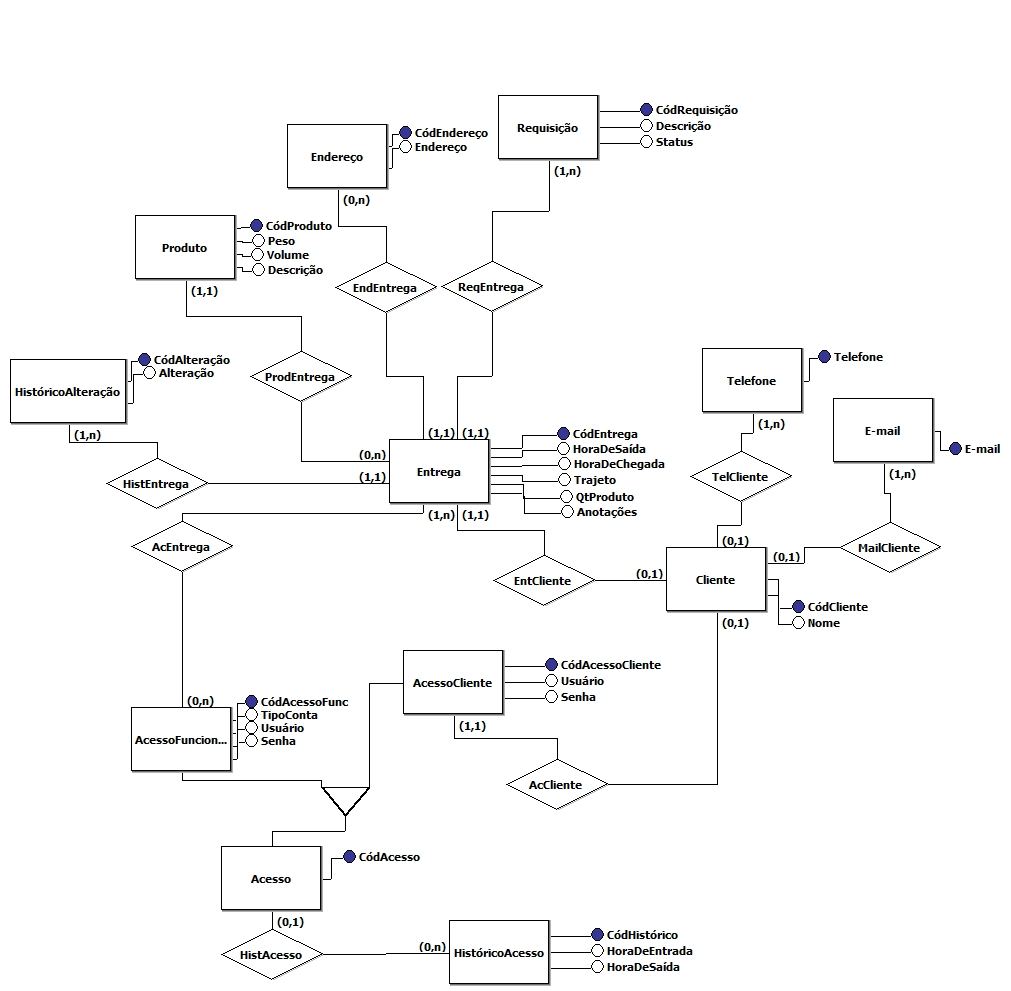
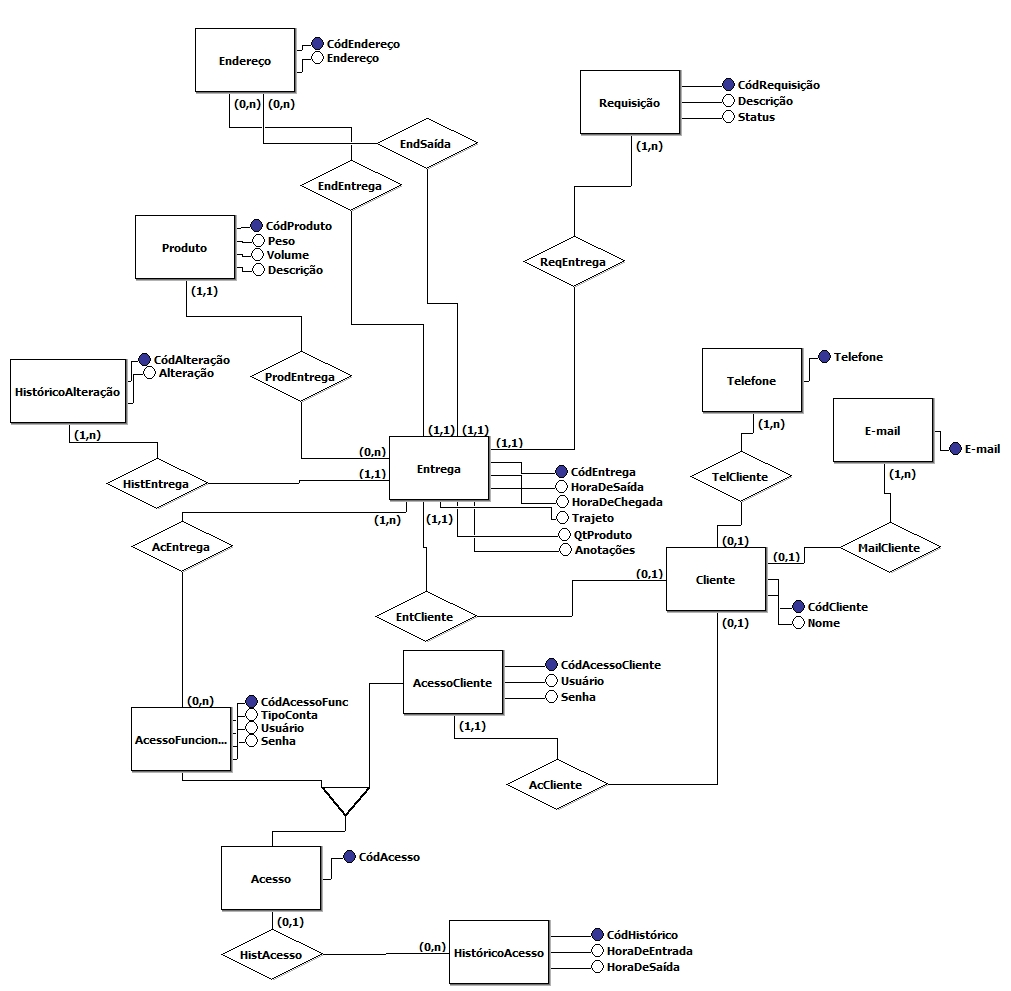
Correção no Modelo ER e Relacional
Olhar no Pivotal Tracker

diff --git a/docs/Modelo Relacional Normalizado.md b/docs/Modelo Relacional Normalizado.md
@@ -6,7 +6,7 @@ Requisição (**CódRequisição**, #CódEntrega, Descrição, Status)
 
 HistóricoAlteração (**CódAlteração**, #CódEntrega, Alteração)
 
-Entrega (**CódEntrega**, #CódProduto, HoraDeSaída, HoraDeChegada, Trajeto, QtProduto, Anotações)
+Entrega (**CódEntrega**, #CódProduto,  #CódEndSaida, #CódEndEntrega, HoraDeSaída, HoraDeChegada, Trajeto, QtProduto, Anotações)
 
 Acesso (**CódAcesso**)
 

diff --git a/docs/Modelo Relacional.md b/docs/Modelo Relacional.md
@@ -6,7 +6,7 @@ Requisição (**CódRequisição**, #CódEntrega, Descrição, Status)
 
 HistóricoAlteração (**CódAlteração**, #CódEntrega, Alteração)
 
-Entrega (**CódEntrega**, #CódProduto, HoraDeSaída, HoraDeChegada, Trajeto, QtProduto, Anotações)
+Entrega (**CódEntrega**, #CódProduto, #CódEndSaida, #CódEndEntrega, HoraDeSaída, HoraDeChegada, Trajeto, QtProduto, Anotações)
 
 Acesso (**CódAcesso**)
 
